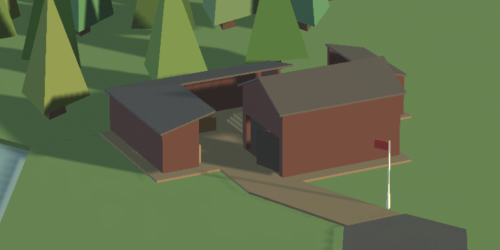
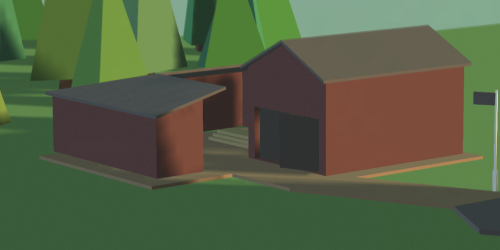
paperFactory model

diff --git a/client/css/gameInterface/images.css b/client/css/gameInterface/images.css
@@ -15,3 +15,11 @@
 .image-goldMill_a {
   background-image: url(../img/images/goldMill_a.png);
 }
+
+.image-road_a {
+  background-image: url(../img/images/road_a.png);
+}
+
+.image-paperFactory_a {
+  background-image: url(../img/images/paperFactory_a.png);
+}

diff --git a/client/css/gameInterface/factory.css b/client/css/gameInterface/factory.css
@@ -65,6 +65,9 @@
 .factory_header_bg-sandMine {
   background-image: url(../img/factoryCards/sandmine.png);
 }
+.factory_header_bg-paperFactory {
+  background-image: url(../img/factoryCards/paperFactory.png);
+}
 
 .factory_header_header {
   font-size: 8px;

diff --git a/client/scripts/howtoplay/modules/game/scene/assets/atlas.js b/client/scripts/howtoplay/modules/game/scene/assets/atlas.js
@@ -265,7 +265,7 @@ ATLAS.models = [
 
   { name:'paperFactory',
     folder:'buildings/',
-    file:'factory_test.glb',
+    file:'paperFactory.glb',
   },
 
   { name:'glassFactory',

diff --git a/client/scripts/modules/game/scene/assets/atlas.js b/client/scripts/modules/game/scene/assets/atlas.js
@@ -265,7 +265,7 @@ ATLAS.models = [
 
   { name:'paperFactory',
     folder:'buildings/',
-    file:'factory_test.glb',
+    file:'paperFactory.glb',
   },
 
   { name:'glassFactory',
